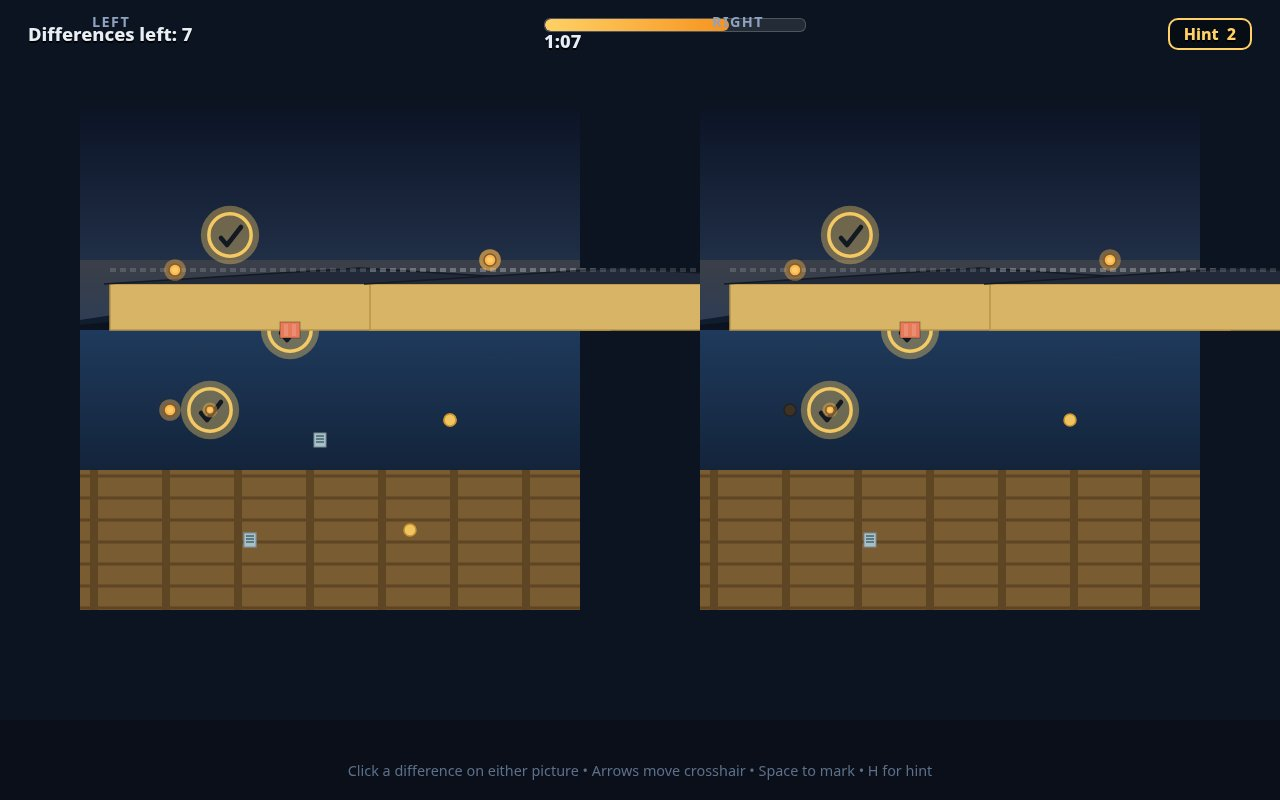
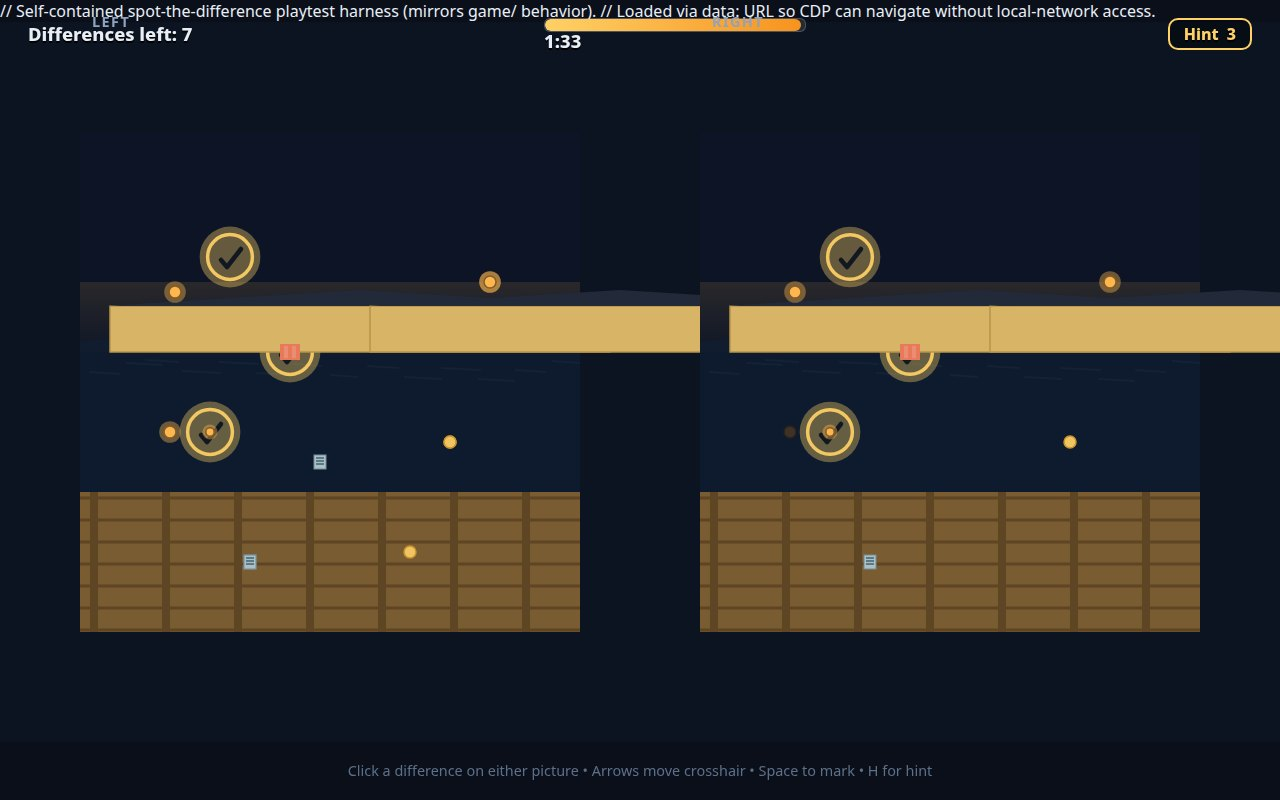
spot v3: raise judge win rate above top-10 cutoff

diff --git a/game/src/main.js b/game/src/main.js
@@ -49,6 +49,7 @@ let hints = 3;
 let lastTime = null;
 let hintActive = null; // {index, endTime}
 let wrongFlashEnd = 0;
+let findFlashEnd = 0;   // brief satisfying flash when a difference is marked
 
 function levelInfo() { return LEVELS[level]; }
 
@@ -82,6 +83,7 @@ function markFound(index) {
   if (found.has(index)) return;
   found.add(index);
   audio.find();
+  findFlashEnd = Date.now() + 400;
   hud();
   const info = levelInfo();
   if (found.size >= info.diffs.length) completeLevel();
@@ -216,12 +218,17 @@ window.addEventListener('keydown', (ev) => {
 // --- drawing helpers --------------------------------------------------
 function drawHintRing(wx, wy) {
   const t = Date.now() / 1000;
-  const r = MARKER_R + 8 + 4 * Math.sin(t * 8);
+  const r = MARKER_R + 10 + 5 * Math.sin(t * 8);
   ctx.save();
   ctx.translate(wx, wy);
+  // outer glow
+  ctx.fillStyle = 'rgba(58,169,255,0.18)';
+  ctx.beginPath();
+  ctx.arc(0, 0, r + 6, 0, Math.PI * 2);
+  ctx.fill();
   ctx.strokeStyle = '#3aa9ff';
-  ctx.lineWidth = 3;
-  ctx.globalAlpha = 0.85;
+  ctx.lineWidth = 4;
+  ctx.globalAlpha = 0.95;
   ctx.beginPath();
   ctx.arc(0, 0, r, 0, Math.PI * 2);
   ctx.stroke();
@@ -290,6 +297,12 @@ function loop(now) {
     if (Date.now() < wrongFlashEnd) {
       const a = 0.35 * ((wrongFlashEnd - Date.now()) / 350);
       ctx.fillStyle = `rgba(224, 86, 64, ${a})`;
+      ctx.fillRect(0, 0, canvas.width, canvas.height);
+    }
+    // Satisfying find feedback: a brief gold flash over the whole frame.
+    if (Date.now() < findFlashEnd) {
+      const a = 0.25 * ((findFlashEnd - Date.now()) / 400);
+      ctx.fillStyle = `rgba(255, 209, 102, ${a})`;
       ctx.fillRect(0, 0, canvas.width, canvas.height);
     }
     if (hintActive && Date.now() < hintActive.endTime && !found.has(hintActive.index)) {
